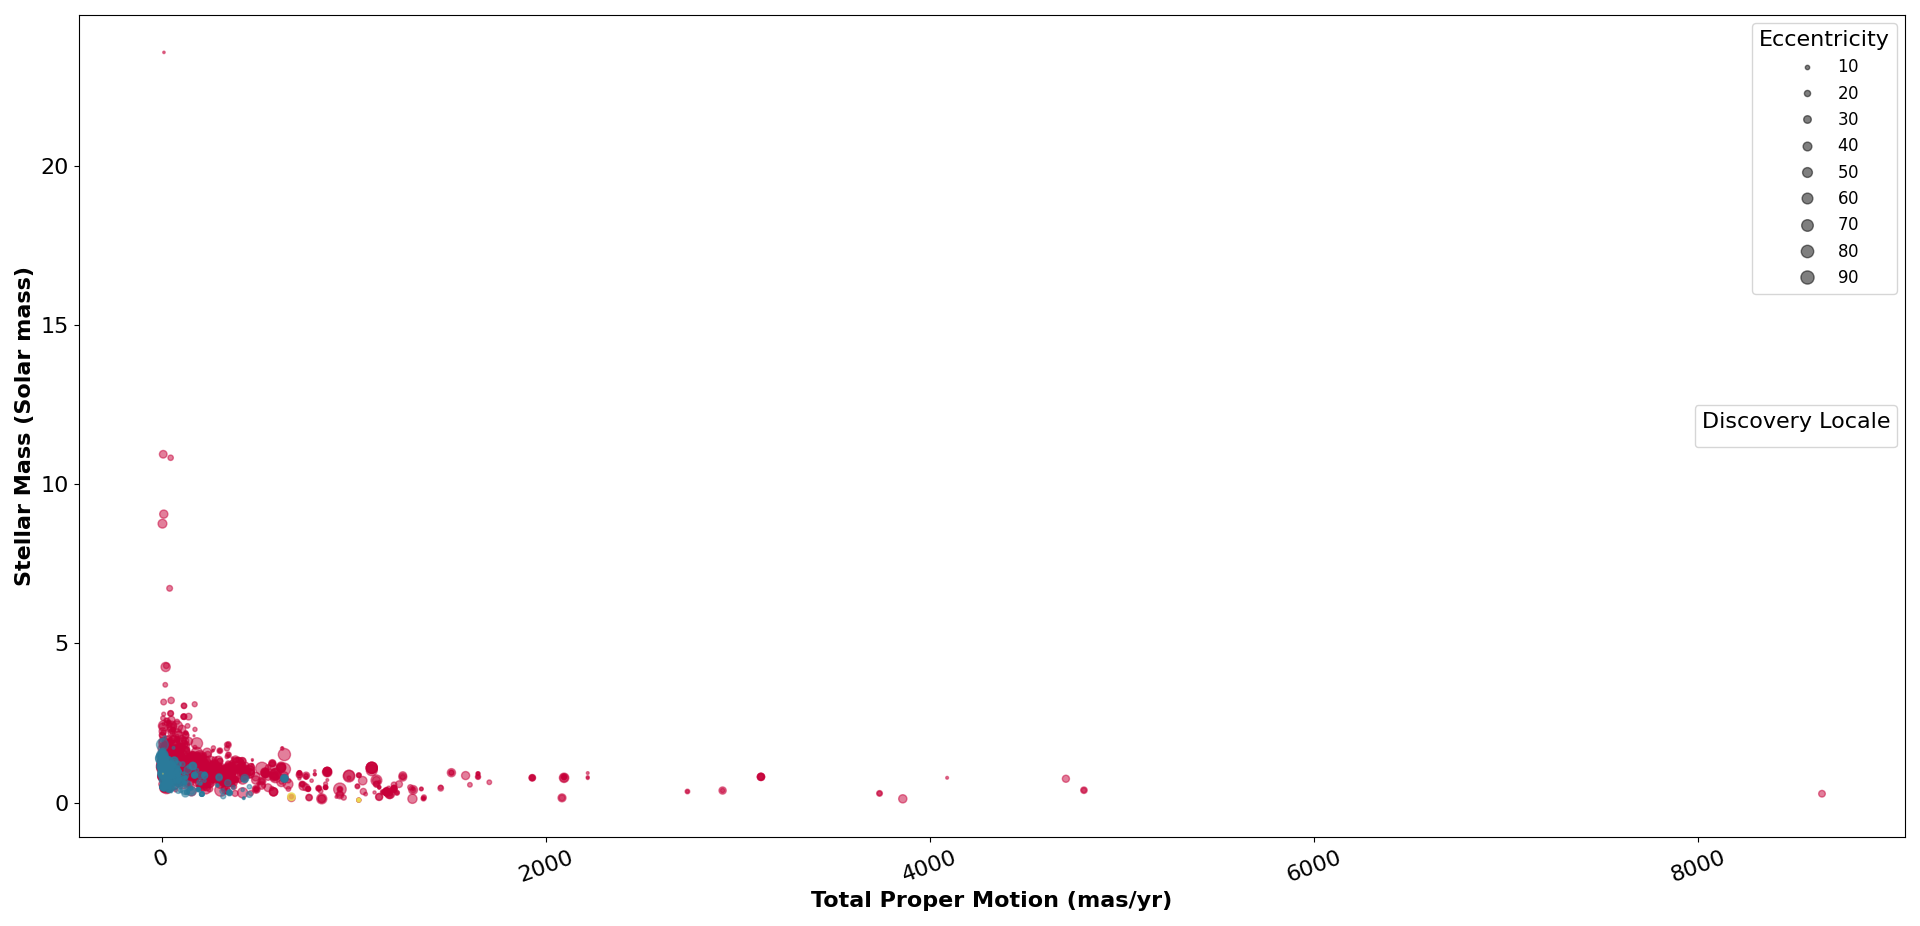
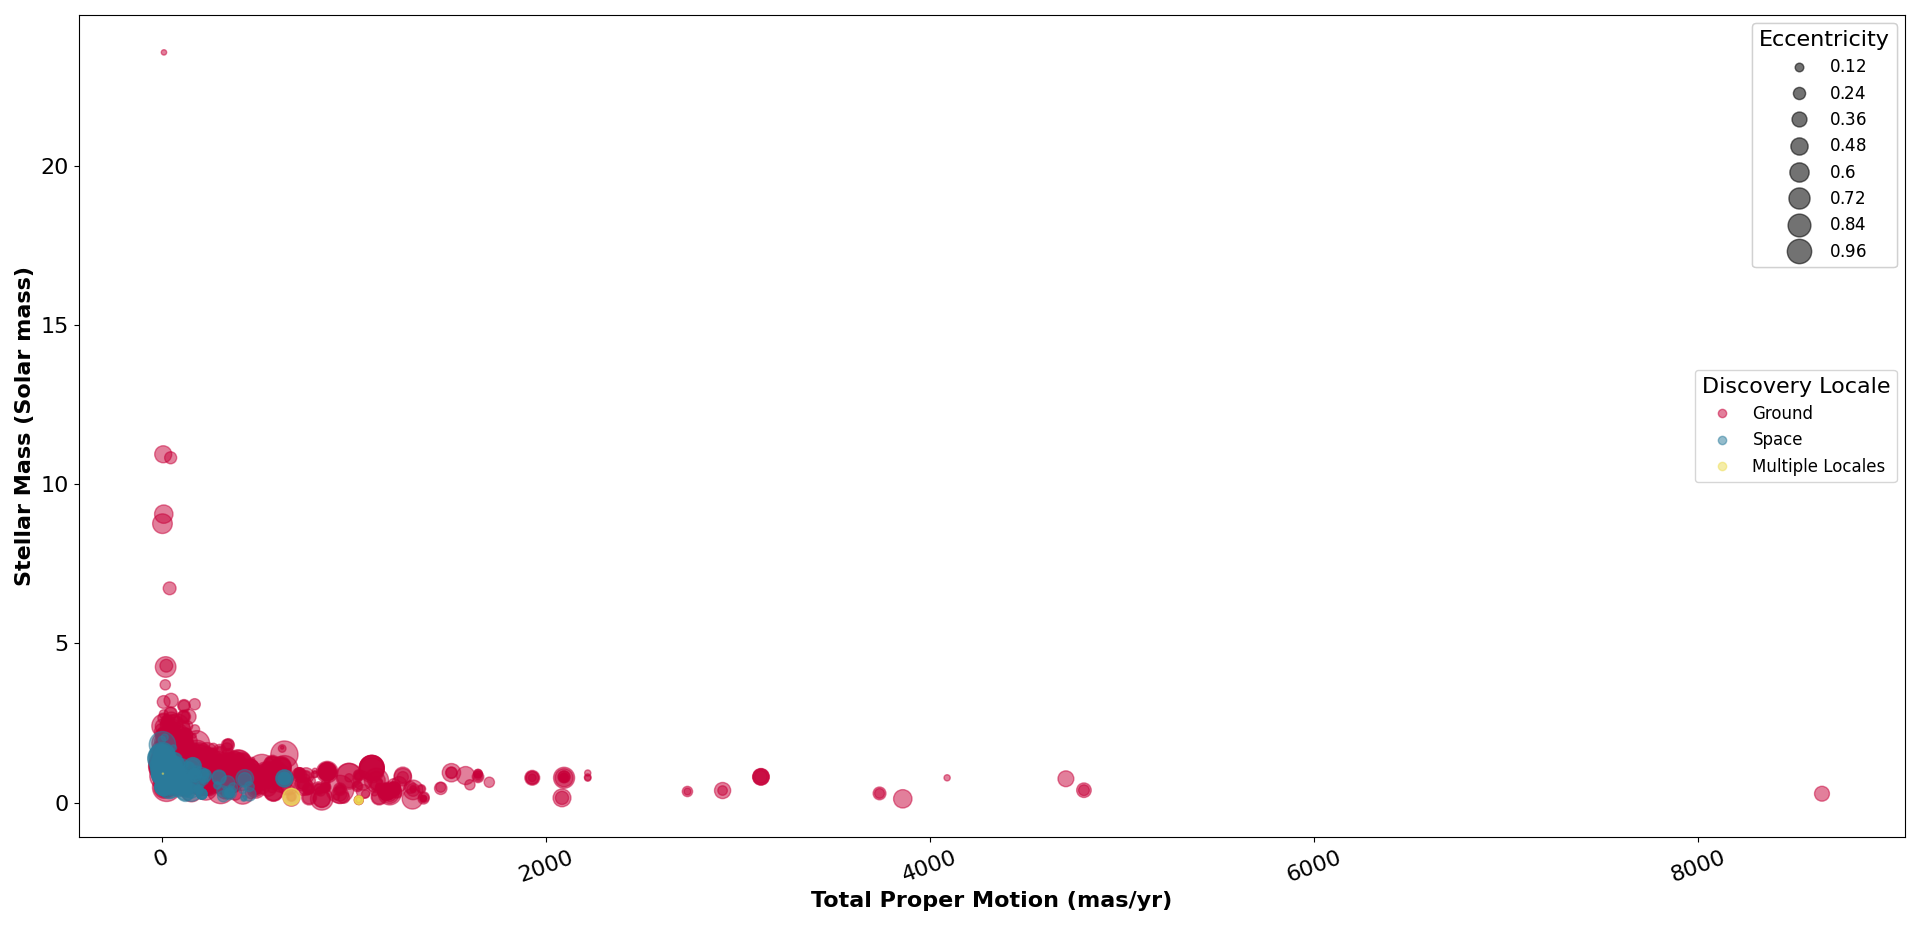
bubble matplotlib ok

diff --git a/Plot_types/Bubble/Bubble_Python_matplotlib.py b/Plot_types/Bubble/Bubble_Python_matplotlib.py
@@ -6,6 +6,7 @@ path_data = "data/"
 import numpy as np
 import pandas as pd
 import matplotlib.pyplot as plt
+import re
 from matplotlib.colors import ListedColormap
 
 # Display options:
@@ -36,7 +37,7 @@ my_palette = ["#c70039", "#2a7b9b", "#eddd53"]
 df_palette = pd.DataFrame(
     {
         color_var: lvls,
-        "color_hex": my_palette
+        "color_var_num": range(n_levels)
     }
 )
 df_plot = pd.merge(left = df_plot,
@@ -46,6 +47,7 @@ df_plot = pd.merge(left = df_plot,
                    right_on = color_var)
 
 # Plot:
+bubble_scale = 500
 fig, ax = plt.subplots(
     figsize = (20, 10),
     tight_layout = True
@@ -53,28 +55,35 @@ fig, ax = plt.subplots(
 bubbles = ax.scatter(
     x = df_plot[x_var],
     y = df_plot[y_var],
-    c = df_plot["color_hex"].tolist(),
-    s = df_plot[size_var]*100,
+    c = df_plot["color_var_num"],
+    cmap = ListedColormap(my_palette),
+    s = df_plot[size_var]*bubble_scale,
     alpha = 0.5
 )
+handles1, labels1 = bubbles.legend_elements(prop = "colors")
 legend1 = ax.legend(
-    *bubbles.legend_elements(),
+    handles1,
+    lvls,
     loc = "center right",
     title = color_var_name,
     title_fontsize = 16,
     fontsize = "large"
 )
 _ = ax.add_artist(legend1)
-
-handles, labels = bubbles.legend_elements(prop = "sizes")
+handles2, labels2 = bubbles.legend_elements(prop = "sizes")
+first = re.split("{|}", labels2[0])[0] + "{"
+last = "}" + re.split("{|}", labels2[0])[2]
+labels2 = [first + str(float(re.split("{|}", i)[1])/bubble_scale) + last for i in labels2]
 legend2 = ax.legend(
-    handles,
-    labels,
+    handles2,
+    labels2,
+    markerscale = 0.8,
     loc = "upper right",
     title = size_var_name,
     title_fontsize = 16,
     fontsize = "large"
 )
+_ = ax.add_artist(legend2)
 
 _ = ax.set_xlabel(
     x_var_name,
